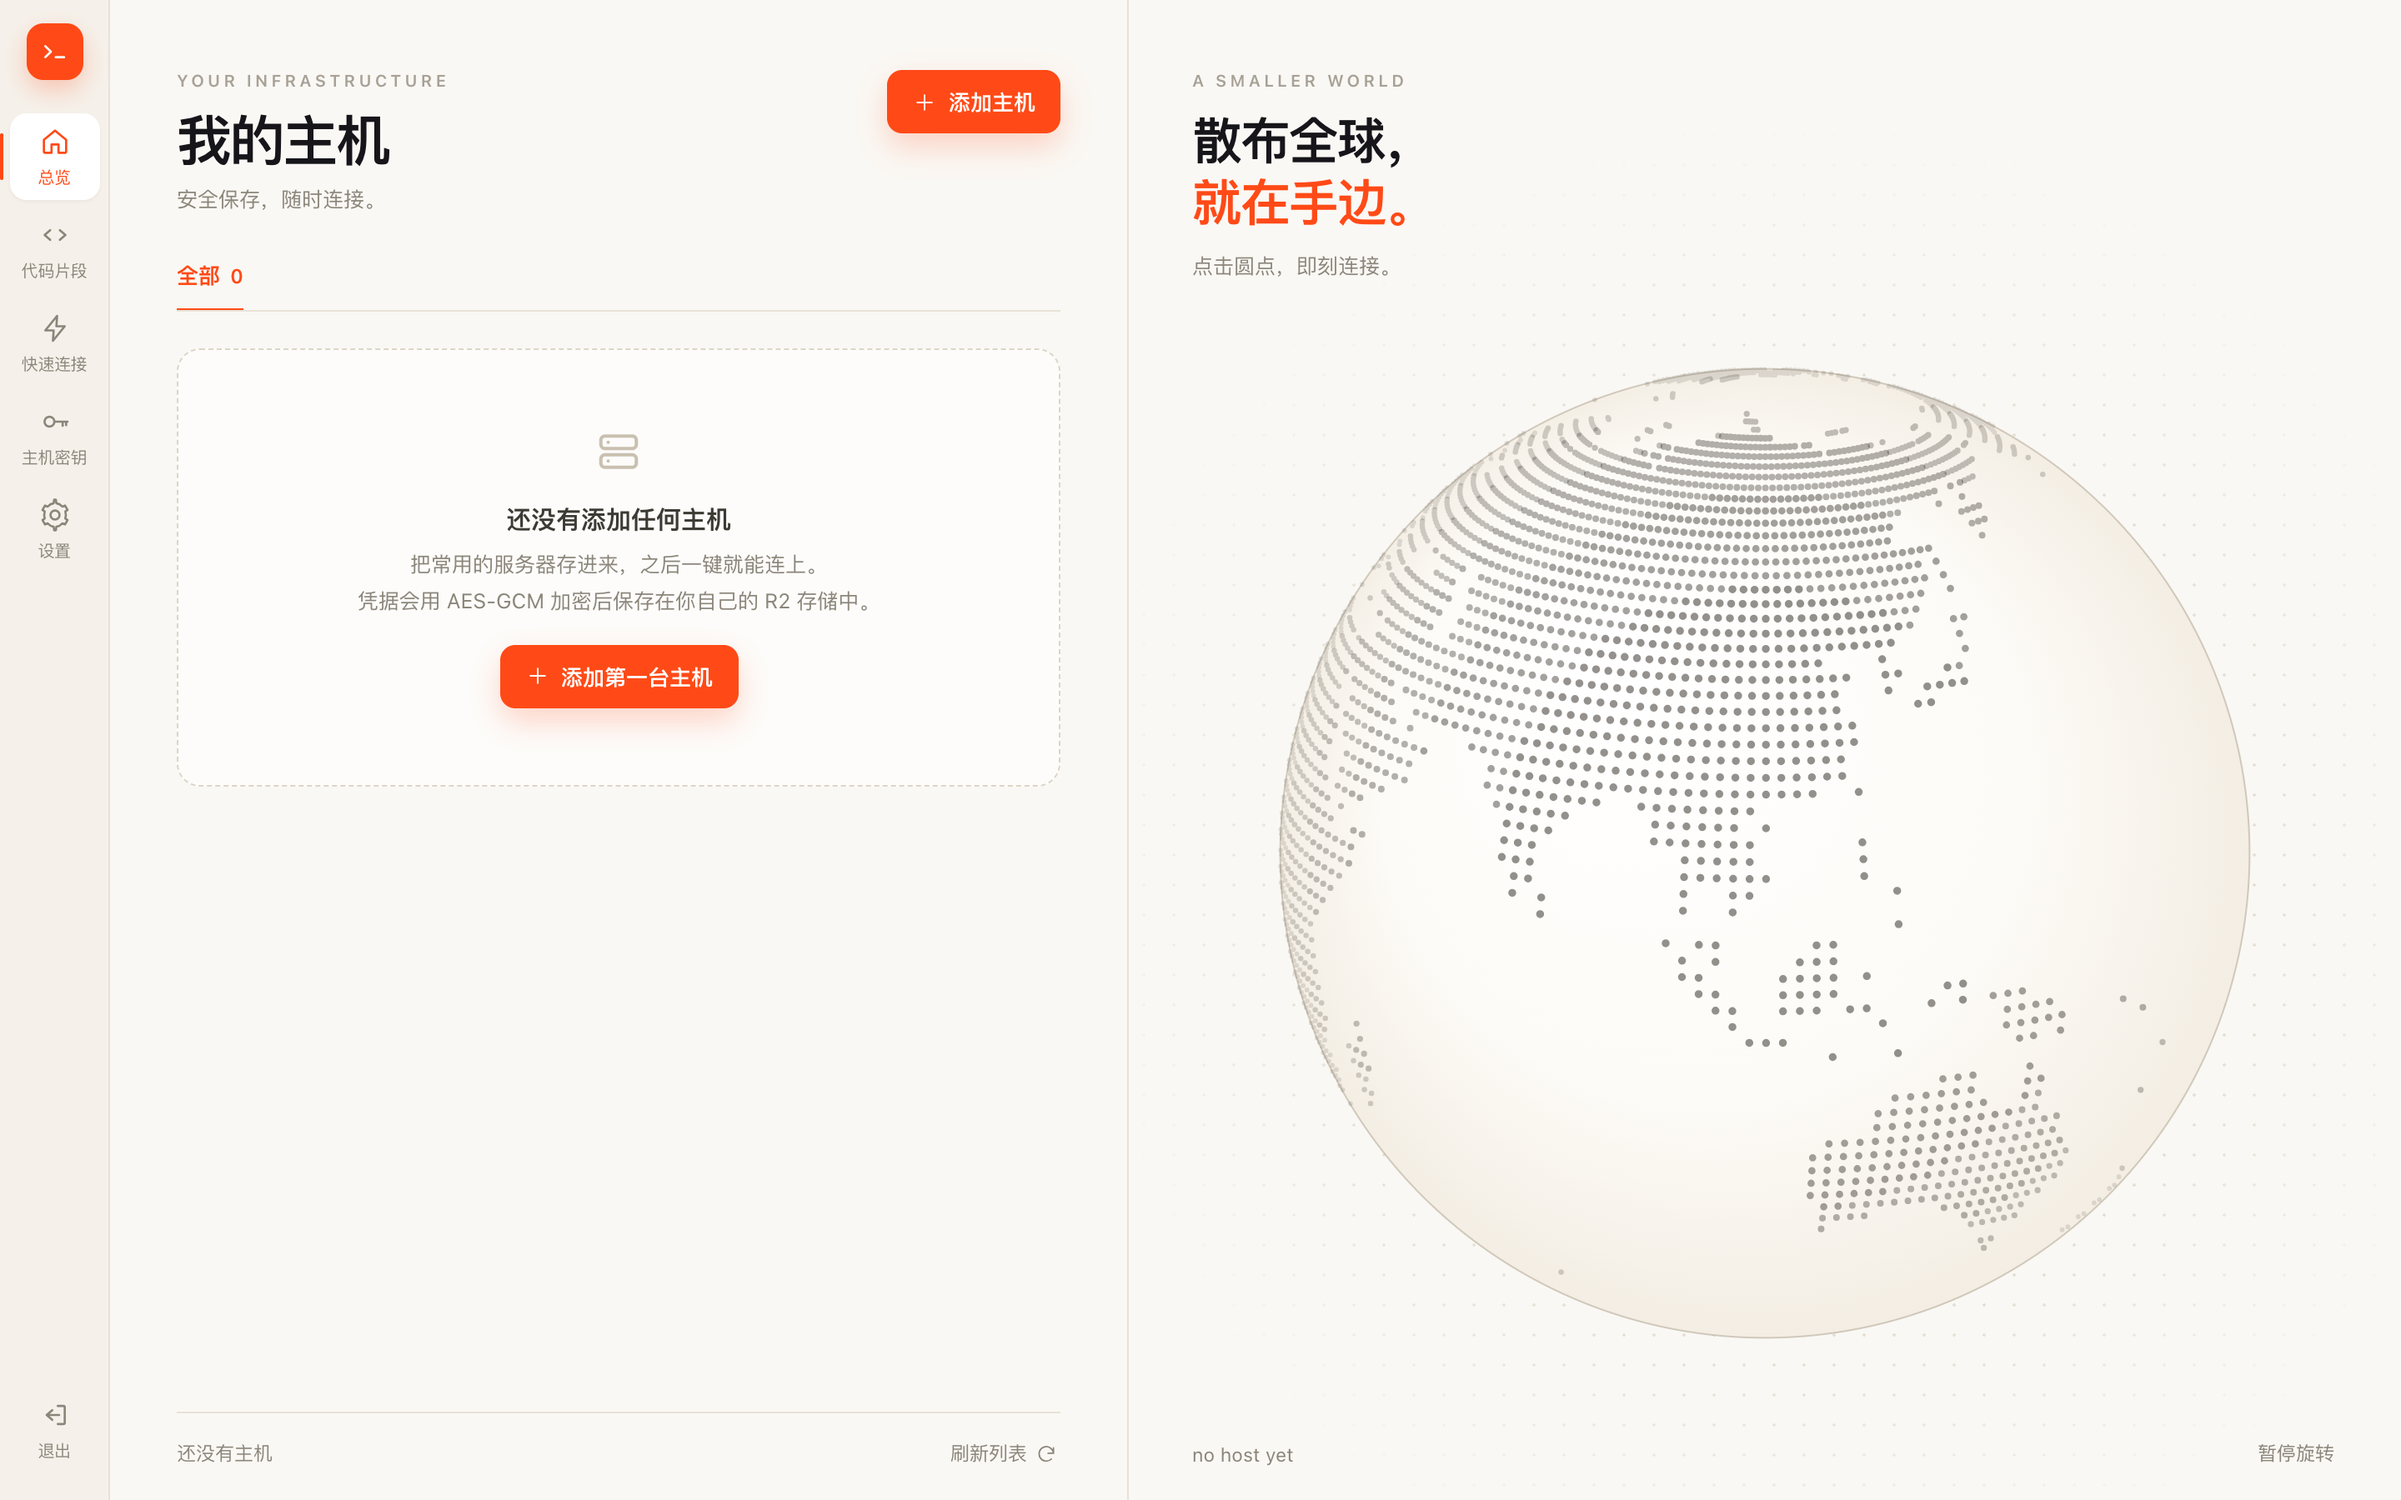
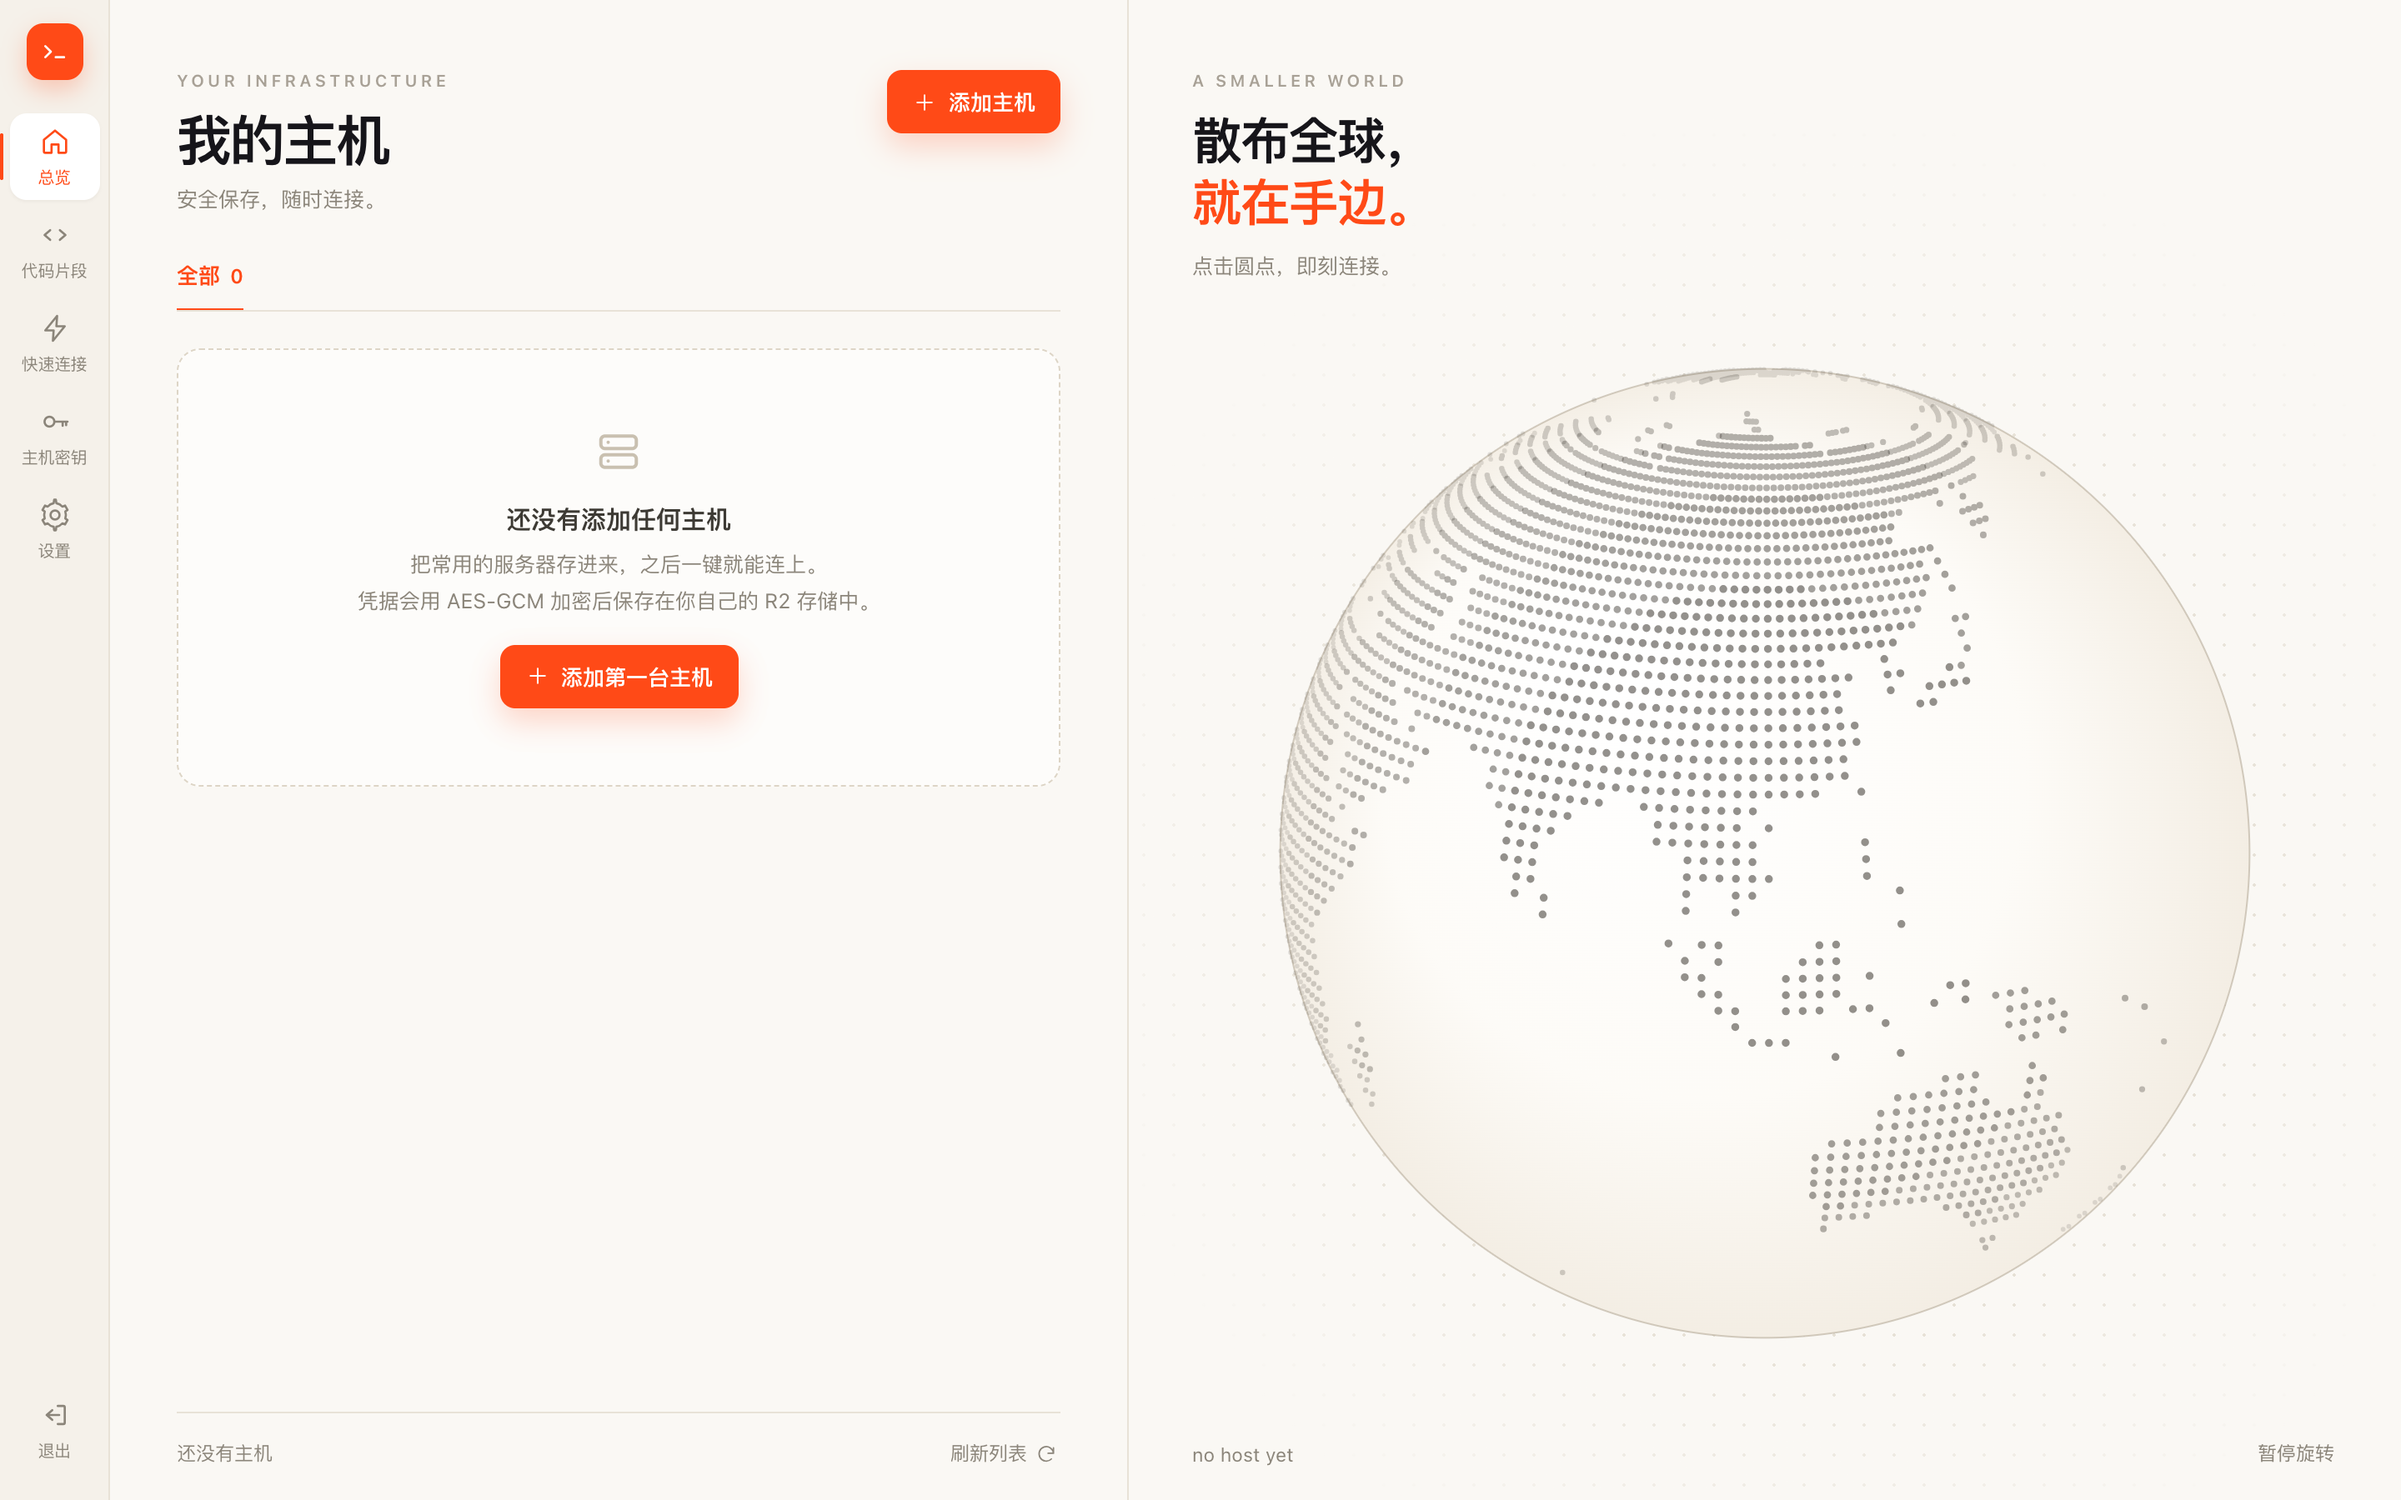
Add files via upload

diff --git a/src/auth.js b/src/auth.js
@@ -4,7 +4,8 @@ import { getJSON, putJSON, del, list } from './store.js';
 const ADMIN_KEY = 'sys/admin';
 const MASTER_KEY = 'sys/master';
 const SESSION_PREFIX = 'sess/';
-const PBKDF2_ITER = 120000;
+// Workers 生产运行时拒绝 >100000 的 PBKDF2 迭代（NotSupportedError），本地 dev 不检查
+const PBKDF2_ITER = 100000;
 const SESSION_TTL = 30 * 24 * 3600 * 1000;
 
 const te = new TextEncoder();
